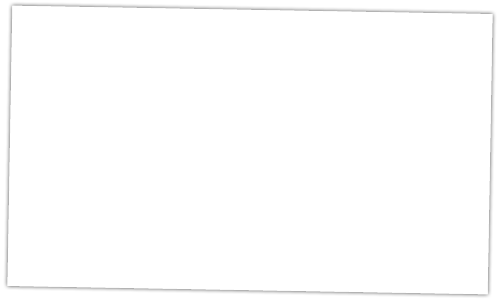
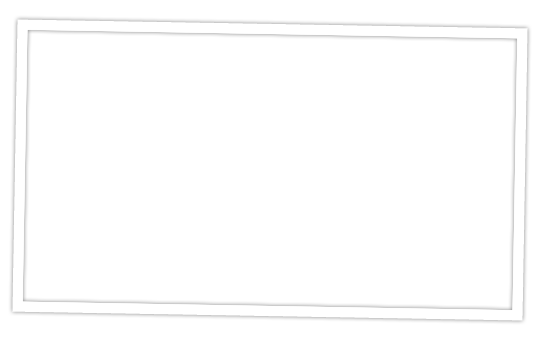
removed background-size property for IE demo

Changed region(s): [[0.0, 0.0, 0.99, 0.99]]

diff --git a/index.html b/index.html
@@ -60,6 +60,8 @@
         $(function(){
             $('#accordion').stackAccordion({
                 width:1000,
+                height:340,
+                cardWith:540,
                 lapping:40,
                 duration:500,
                 triggerOnHover:true,

diff --git a/css/stackaccordion.css b/css/stackaccordion.css
@@ -18,8 +18,7 @@
 
 .stackAccordion li div.content div.frame {
     background-repeat:no-repeat;
-    background-position: 15px 15px;
-    background-size: 470px 270px;
+    background-position: 22px 29px;
 }
 
 .stackAccordion li .trigger {
